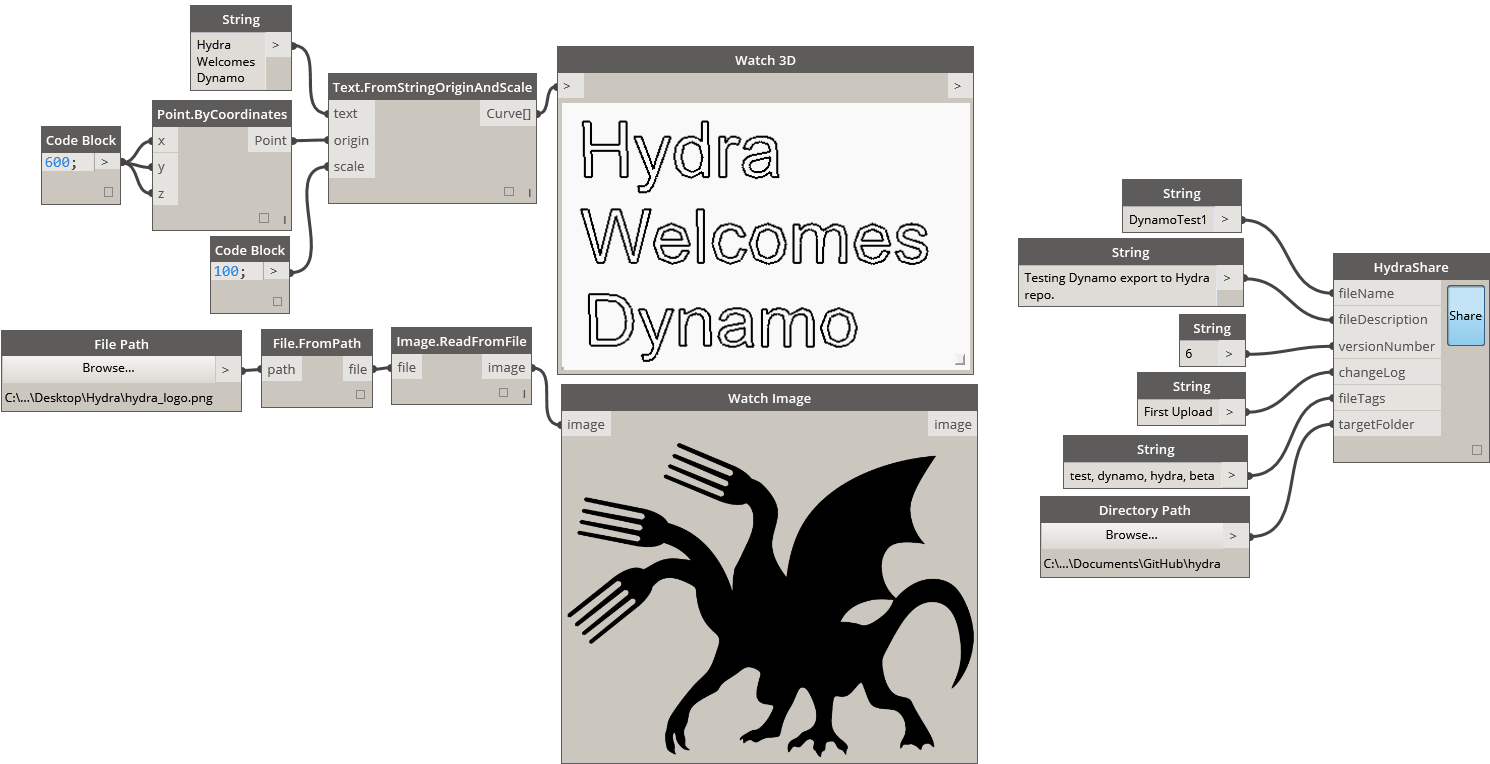
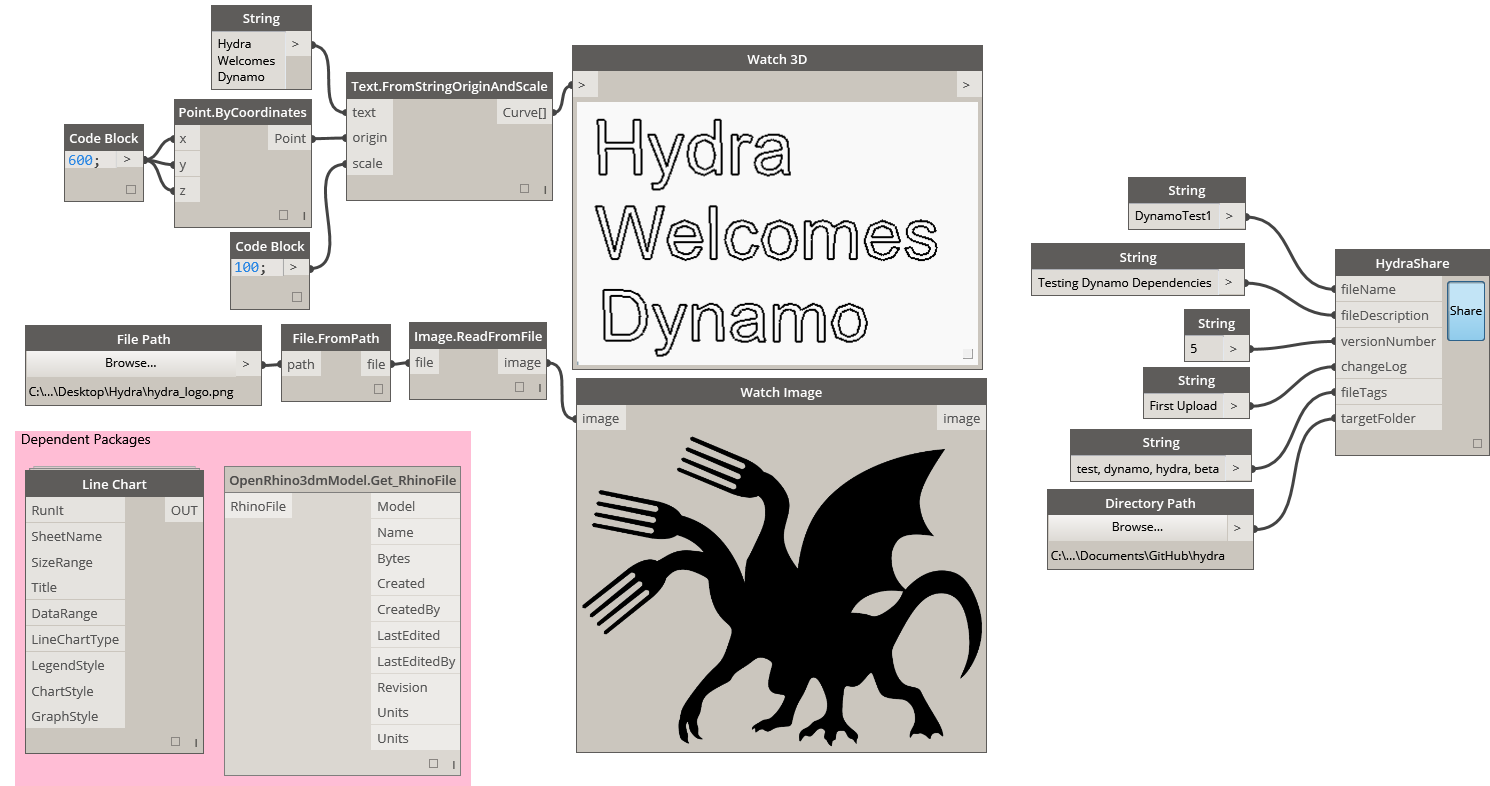
Testing Scheme

diff --git a/DynamoTest1/README.md b/DynamoTest1/README.md
@@ -1,6 +1,6 @@
 ### Description
-Testing Dynamo export to Hydra repo.
+Testing Dynamo Dependencies
 ### Version
-File Version: 6
+File Version: 5
 ### Tags
 test,dynamo,hydra,beta
